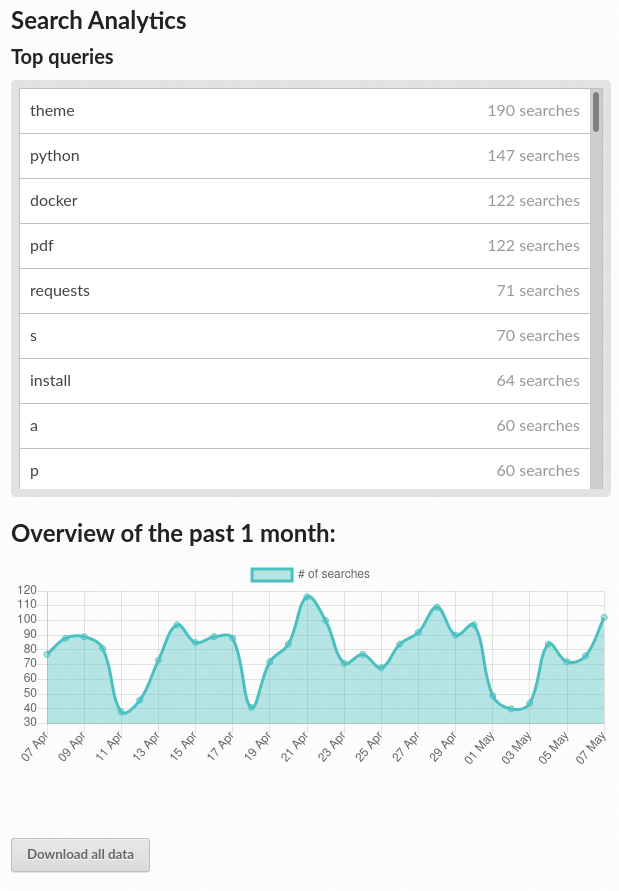
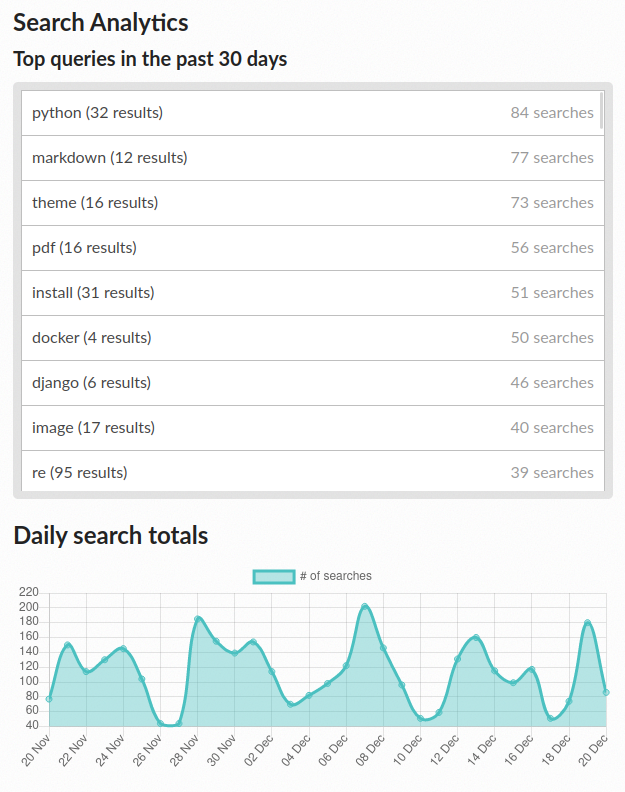
Update screenshot and add more guidance to using the search analytics feature

Changed region(s): [[0.0, 0.0, 1.0, 1.0]]

diff --git a/docs/user/guides/search-analytics.rst b/docs/user/guides/search-analytics.rst
@@ -3,4 +3,36 @@ How To Use Search Analytics
 
 In this guide, you can learn to use Read the Docs' built-in search analytics for your documentation project.
 
-TBC
+To see a list of the top queries and an overview from the last month,
+go to the :guilabel:`Admin` tab of your project,
+and then click on :guilabel:`Search Analytics`.
+
+.. figure:: /_static/images/search-analytics-demo.png
+   :width: 50%
+   :align: center
+   :alt: Search analytics demo
+
+   How the search analytics page looks.
+
+In **Top queries in the past 30 days**,
+you see all the latest searches ordered by their popularity.
+The list itself is often longer than what meets the eye,
+Scroll downwards on the list itself to see more results.
+
+Understanding your analytics
+----------------------------
+
+In **Top queries in the past 30 days**, you can see the most popular terms that users have searched for.
+Next to the search query, the number of actual **results** for that query is shown.
+The number of times the query has been registered is displayed in the as the **searches** number.
+
+* If you see a search term that doesn't have any results,
+  you could apply that term in documentation articles or create new ones.
+
+* If a search term is often used but the documentation article exists,
+  it can also indicate that it's hard to navigate to the article.
+
+* Try to repeat the search yourself and view the results list to inspect if the results are relevant.
+
+In **Daily search totals**, you can see any trends that might match significant events in your projects publicity.
+If you need more details, click :guilabel:`Download all data`.

diff --git a/docs/user/server-side-search/index.rst b/docs/user/server-side-search/index.rst
@@ -65,23 +65,19 @@ API
    Integrate our search as you like.
    See :doc:`/server-side-search/api`.
 
+Analytics
+   Know what your users are searching for.
+   See :doc:`/guides/search-analytics`
+
 .. _"full-text search": https://docs.readthedocs.io/en/latest/search.html?q=%22full-text+search%22
 .. _"project:docs project:dev search": https://docs.readthedocs.io/en/latest/search.html?q=project:docs+project:dev+search
-
-Search analytics
-----------------
-
-Know what your users are looking for in your docs.
-To see a list of the top queries and an overview from the last month,
-go to the :guilabel:`Admin` tab of your project,
-and then click on :guilabel:`Search Analytics`.
 
 .. figure:: /_static/images/search-analytics-demo.png
    :width: 50%
    :align: center
    :alt: Search analytics demo
 
-   Search analytics demo
+   Search analytics demo. Read more in :doc:`/guides/search-analytics`.
 
 .. _Elasticsearch: https://www.elastic.co/products/elasticsearch
 

diff --git a/docs/user/reference/analytics.rst b/docs/user/reference/analytics.rst
@@ -25,7 +25,7 @@ Learn more in :doc:`/analytics`.
 Search Analytics
 ----------------
 
-When someone visits your documentation using a search engine,
+When someone visits your documentation and uses the built-in :ref:`server-side search <server-side-search:Server Side Search>` feature,
 Read the Docs will collect analytics on their search term.
 
 Those are aggregated into a simple view of the
